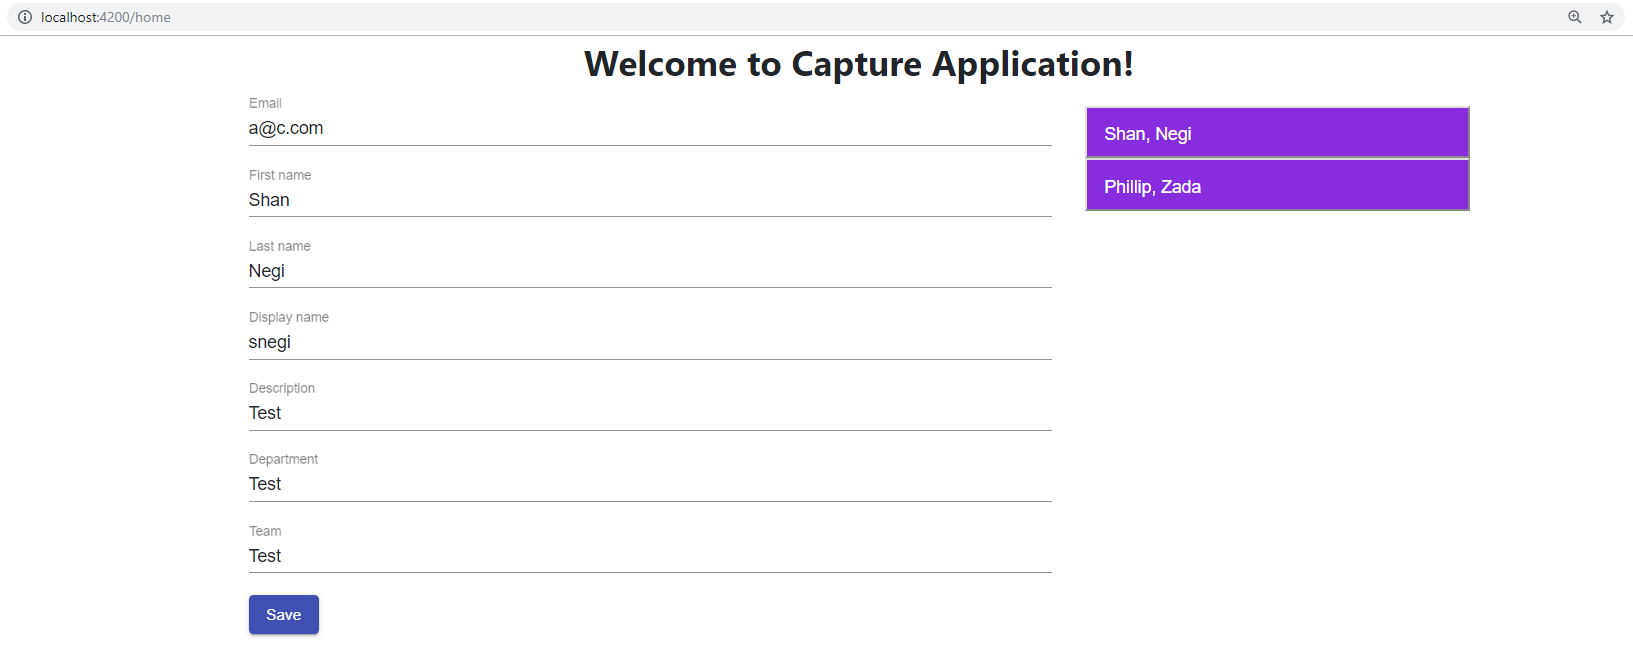
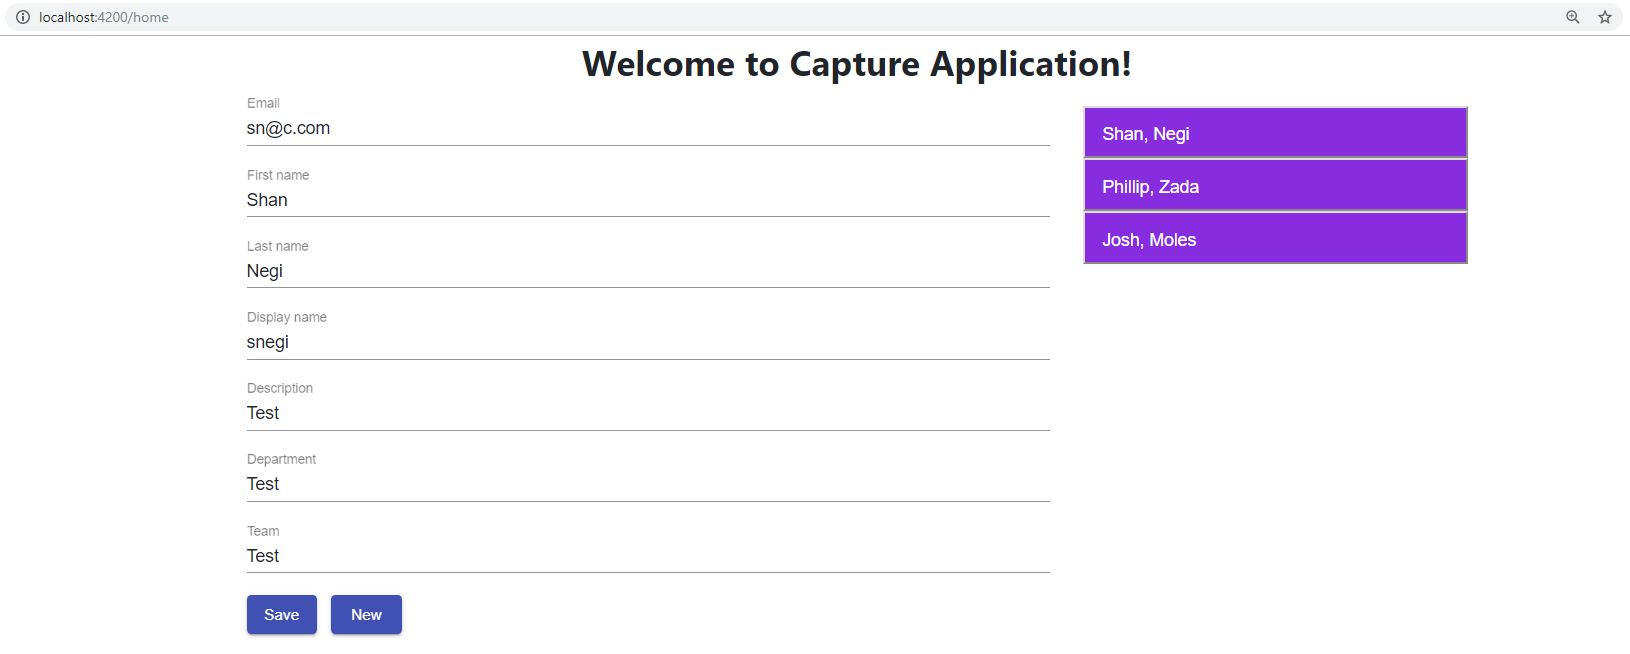
added save and update functionality.

diff --git a/zware-ui/src/app/components/user-profile/user-profile.component.html b/zware-ui/src/app/components/user-profile/user-profile.component.html
@@ -1,31 +1,32 @@
  <div class="example-container slide-in">
     <mat-form-field>
-        <input matInput placeholder="Email" [value]="profile?.email" />
+        <input matInput placeholder="Email" [(ngModel)]="profile.email" />
       </mat-form-field>
     
       <mat-form-field>
-        <input matInput placeholder="First name" [value]="profile?.firstName" />
+        <input matInput placeholder="First name" [(ngModel)]="profile.firstName" />
       </mat-form-field>
     
       <mat-form-field>
-        <input matInput placeholder="Last name" [value]="profile?.lastName" />
+        <input matInput placeholder="Last name" [(ngModel)]="profile.lastName" />
       </mat-form-field>
     
       <mat-form-field>
-        <input matInput placeholder="Display name" [value]="profile?.displayName" />
+        <input matInput placeholder="Display name" [(ngModel)]="profile.displayName" />
       </mat-form-field>
     
       <mat-form-field>
-        <input matInput placeholder="Description" [value]="profile?.description" />
+        <input matInput placeholder="Description" [(ngModel)]="profile.description" />
       </mat-form-field>
     
       <mat-form-field>
-        <input matInput placeholder="Department" [value]="profile?.department" />
+        <input matInput placeholder="Department" [(ngModel)]="profile.department" />
       </mat-form-field>
     
       <mat-form-field>
-        <input matInput placeholder="Team" [value]="profile?.team" />
+        <input matInput placeholder="Team" [(ngModel)]="profile.team" />
       </mat-form-field>            
  </div>
- <button mat-raised-button color="primary">Save</button>
+ <button mat-raised-button color="primary" (click)="save()" >Save</button>&nbsp;&nbsp;
+ <button mat-raised-button color="primary" (click)="create()" >New</button>
  

diff --git a/zware-ui/src/app/services/user.profile.service.ts b/zware-ui/src/app/services/user.profile.service.ts
@@ -1,5 +1,5 @@
 import { Injectable } from '@angular/core';
-import { HttpClient } from '@angular/common/http';
+import { HttpClient, HttpHeaders } from '@angular/common/http';
 import { Observable } from 'rxjs';
 
 import { environment } from '../../environments/environment';
@@ -10,6 +10,17 @@ import { UserProfile } from '../models/models';
 })
 export class UserProfileService {
   usersUrl = `${environment.apiUrl}api/${environment.scopeKey}/profiles`;
+  // httpOptions = {
+  //   headers: new HttpHeaders({
+  //     'Content-Type':  'application/json'
+  //   })
+  // };
+
+  httpOptions = {
+    headers: {
+      'Content-Type':  'application/json'
+    }
+  };
 
   constructor(private _http: HttpClient) { }
 
@@ -25,7 +36,14 @@ export class UserProfileService {
 
   setProfile(userProfile: UserProfile): Observable<UserProfile> {
     var url = `${this.usersUrl}`
-    return this._http.post<UserProfile>(url, userProfile);
+    if (userProfile.userId > 0)
+    {
+      url = `${url}/${userProfile.userId}`
+      return this._http.put<UserProfile>(url, userProfile, this.httpOptions);
+    }
+    else {
+      return this._http.post<UserProfile>(url, userProfile, this.httpOptions);
+    }    
   }
 
 }

diff --git a/zware-ui/src/app/components/user-profile/user-profile.component.ts b/zware-ui/src/app/components/user-profile/user-profile.component.ts
@@ -1,4 +1,4 @@
-import { Component, OnInit, Input, SimpleChanges } from '@angular/core';
+import { Component, OnInit, Input, Output, SimpleChanges, EventEmitter } from '@angular/core';
 import { UserProfile } from '../../models/models';
 import { UserProfileService } from '../../services/user.profile.service';
 
@@ -11,8 +11,10 @@ export class UserProfileComponent implements OnInit {
 
   @Input()
   userId: number;
-  
-  profile: UserProfile;
+  @Output()
+  profileModified = new EventEmitter();
+
+  profile: UserProfile = new UserProfile();
 
   constructor(private service: UserProfileService) { }
 
@@ -30,5 +32,15 @@ export class UserProfileComponent implements OnInit {
 
     if (changes.userId.currentValue)
       this.getProfile(changes.userId.currentValue);
+  }
+
+  create() {
+    this.profile = new UserProfile();
+  }
+
+  save() {
+    this.service.setProfile(this.profile).subscribe(x => {
+      this.profileModified.emit();
+    });    
   }
 }

diff --git a/zware-ui/src/app/components/user-profiles/user-profiles.component.ts b/zware-ui/src/app/components/user-profiles/user-profiles.component.ts
@@ -1,4 +1,4 @@
-import { Component, OnInit, Output, EventEmitter } from '@angular/core';
+import { Component, OnInit, Output, Input, EventEmitter, SimpleChanges } from '@angular/core';
 import { UserProfileService } from '../../services/user.profile.service';
 import { UserProfile } from '../../models/models';
 
@@ -11,12 +11,26 @@ export class UserProfilesComponent implements OnInit {
 
   profiles: UserProfile[];
 
+  @Input()
+  refresh: Date;
+
   @Output() 
   profileSelected = new EventEmitter<string>();
 
   constructor(private service: UserProfileService) { }
 
   ngOnInit() {
+    this.getProfiles();
+  }  
+
+  ngOnChanges(changes: SimpleChanges) {
+
+    if (changes.refresh.currentValue) {
+      this.getProfiles();
+    }      
+  }  
+
+  getProfiles() {
     this.service.getProfiles().subscribe(x => {
       this.profiles = x;
     });

diff --git a/zware-ui/src/app/components/home/home.component.ts b/zware-ui/src/app/components/home/home.component.ts
@@ -1,6 +1,7 @@
-import { Component, OnInit } from '@angular/core';
+import { Component, OnInit, ViewChild, ElementRef } from '@angular/core';
 import { UserProfile } from '../../models/models';
 import { UserProfileService } from '../../services/user.profile.service';
+import { UserProfilesComponent } from '../user-profiles/user-profiles.component';
 
 @Component({
   selector: 'app-home',
@@ -10,6 +11,7 @@ import { UserProfileService } from '../../services/user.profile.service';
 export class HomeComponent implements OnInit {
 
   userId: number;
+  refresh: Date;
   
   constructor() { }
 
@@ -19,4 +21,9 @@ export class HomeComponent implements OnInit {
   setUserId(userId: string) {
     this.userId = +userId;
   }
+
+  refreshList() {
+    this.refresh= new Date();
+  }
+
 }

diff --git a/zware-ui/src/app/components/home/home.component.html b/zware-ui/src/app/components/home/home.component.html
@@ -1,10 +1,10 @@
 <div class="container">
     <div class="row">
       <div class="col-md-8">
-          <app-user-profile [userId]="userId"></app-user-profile>
+          <app-user-profile [userId]="userId" (profileModified)="refreshList()" ></app-user-profile>
       </div>
       <div class="col-md-4">
-          <app-user-profiles (profileSelected)="setUserId($event)"></app-user-profiles>
+          <app-user-profiles #list (profileSelected)="setUserId($event)" [refresh]="refresh"></app-user-profiles>
       </div>
     </div>
 </div>

diff --git a/zware-ui/src/environments/environment.prod.ts b/zware-ui/src/environments/environment.prod.ts
@@ -1,3 +1,5 @@
 export const environment = {
-  production: true
+  production: true,
+  apiUrl: 'https://zware-ngnewapi.azurewebsites.net/',
+  scopeKey: 'shantanu_negi_at_hotmail_com'
 };

diff --git a/README.md b/README.md
@@ -3,7 +3,7 @@
 # Angular 7 front end UI
 
 *   uses Angular Materials like List, Input, Button
-*   bootstrapped
+*   responsive using angular bootstrap
 
 Screenshot:
 
